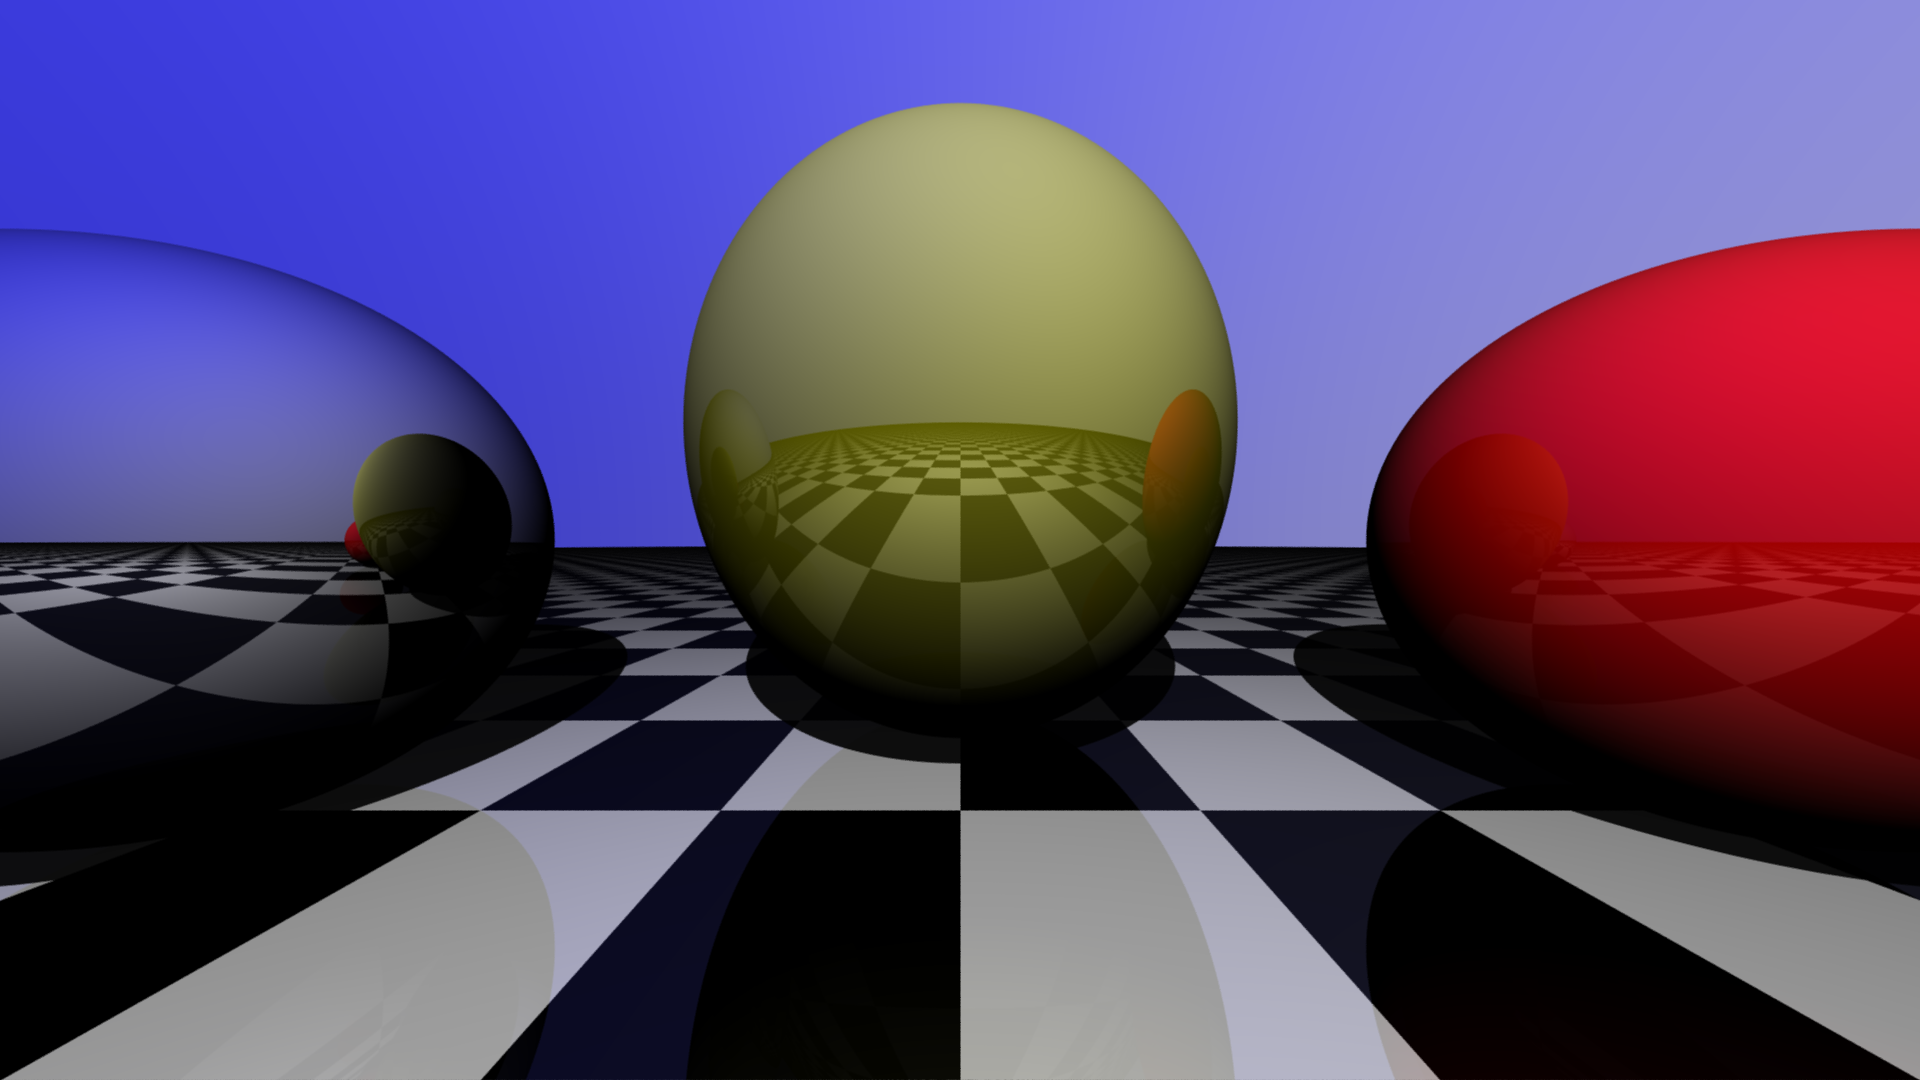
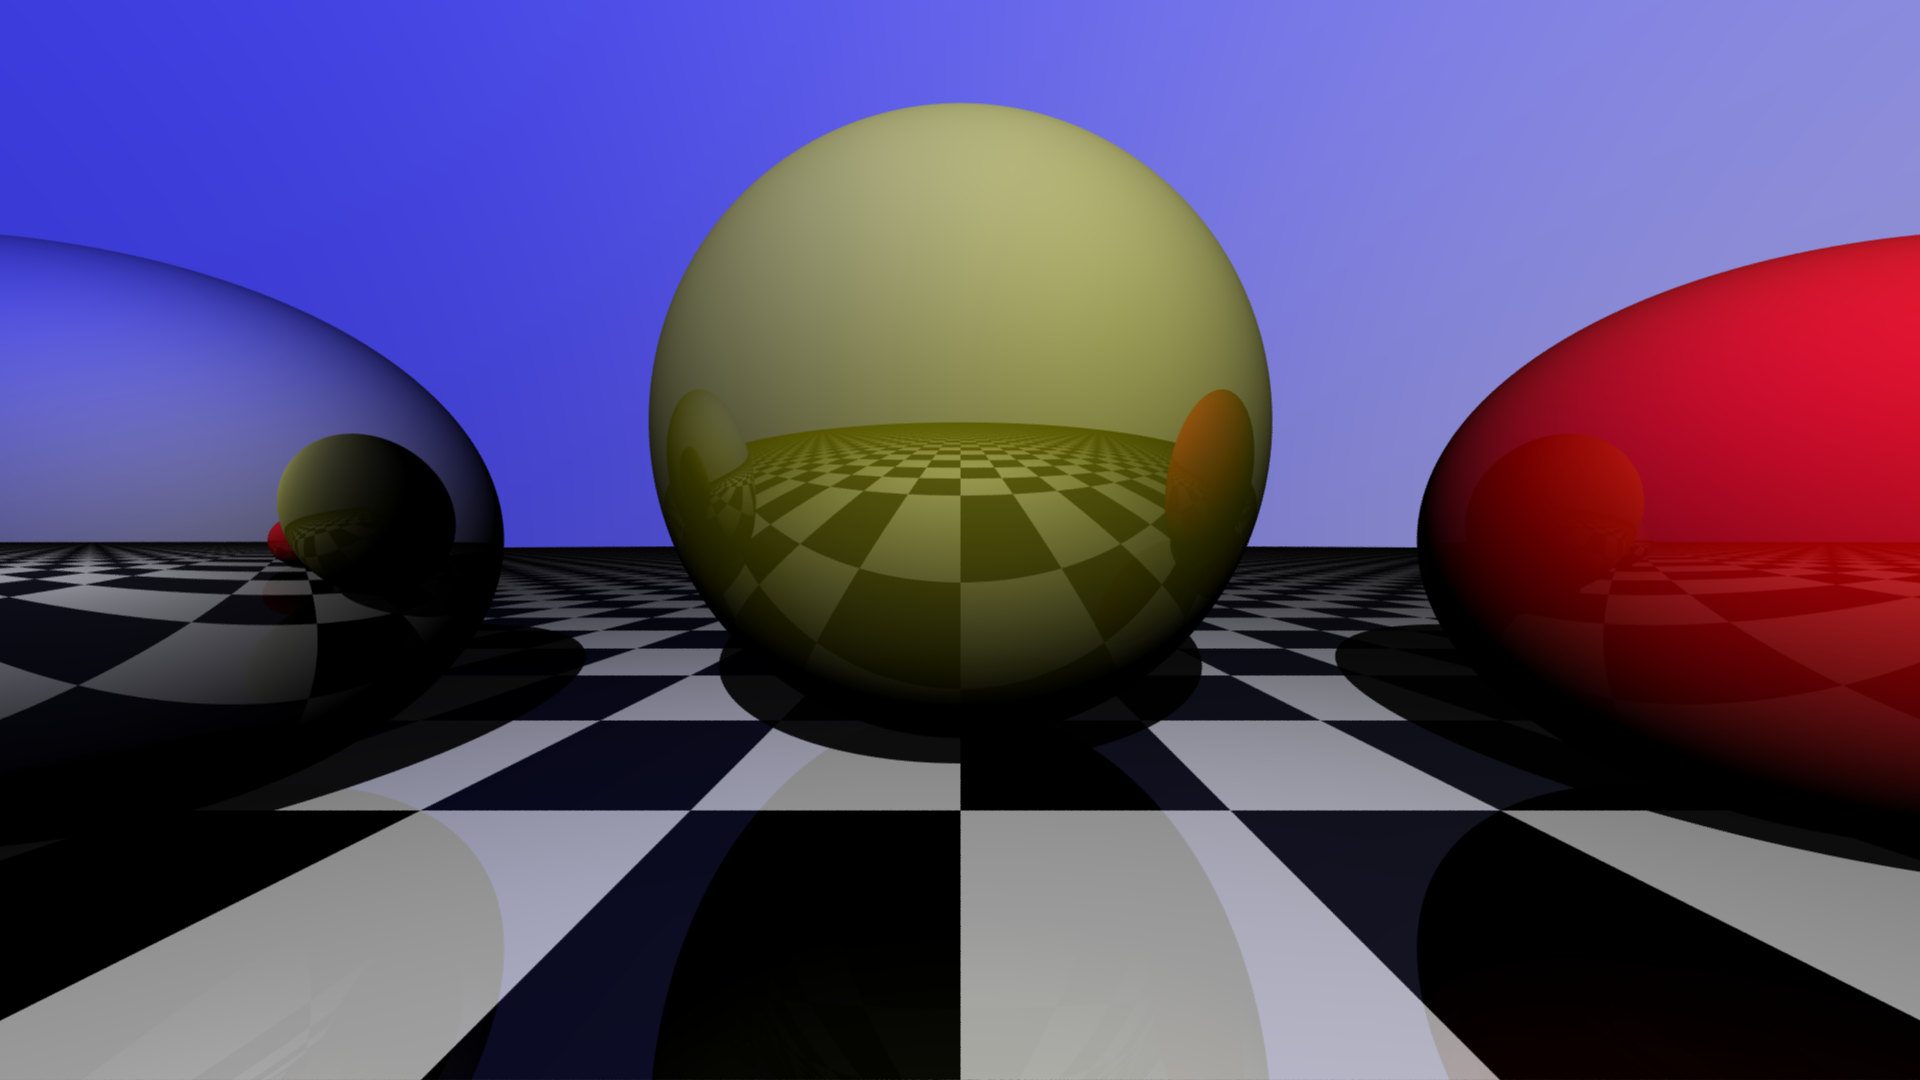
[#5] Fix camera field of view

diff --git a/src/raytracer/camera.rs b/src/raytracer/camera.rs
@@ -10,14 +10,18 @@ pub struct Camera {
 }
 
 impl Camera {
-    pub fn new(position: Vec3, direction: Vec3, fovx: f32, fovy: f32) -> Camera {
-        let left_corner = Vec3::new(-fovx / 2.0, fovy / 2.0, -1.0);
-        let horizontal = Vec3::new(fovx, 0.0, 0.0);
-        let vertical = Vec3::new(0.0, -fovy, 0.0);
+    pub fn new(position: Vec3, direction: Vec3, aspect: f32, fovy: f32) -> Camera {
+        let half_theta = fovy.to_radians() / 2.0;
+        let half_height = half_theta.tan();
+        let half_width = half_height * aspect;
+
+        let left_corner = Vec3::new(-half_width, half_height, -1.0);
+        let horizontal = Vec3::new(2.0 * half_width, 0.0, 0.0);
+        let vertical = Vec3::new(0.0, -2.0 * half_height, 0.0);
 
         Camera {
             direction,
-            left_corner: Vec3::new(-fovx / 2.0, fovy / 2.0, -1.0),
+            left_corner,
             horizontal,
             position,
             vertical,

diff --git a/src/main.rs b/src/main.rs
@@ -47,7 +47,7 @@ fn main() {
     let origin = Vec3::new(0.0, 0.5, 0.0);
     let direction = Vec3::new(0.0, 0.0, -1.0);
 
-    let camera = Arc::new(Camera::new(origin, direction, 4.0, 2.0));
+    let camera = Arc::new(Camera::new(origin, direction, WIDTH as f32 / HEIGHT as f32, 90.0));
 
     let mut scene = Scene::new();
 
